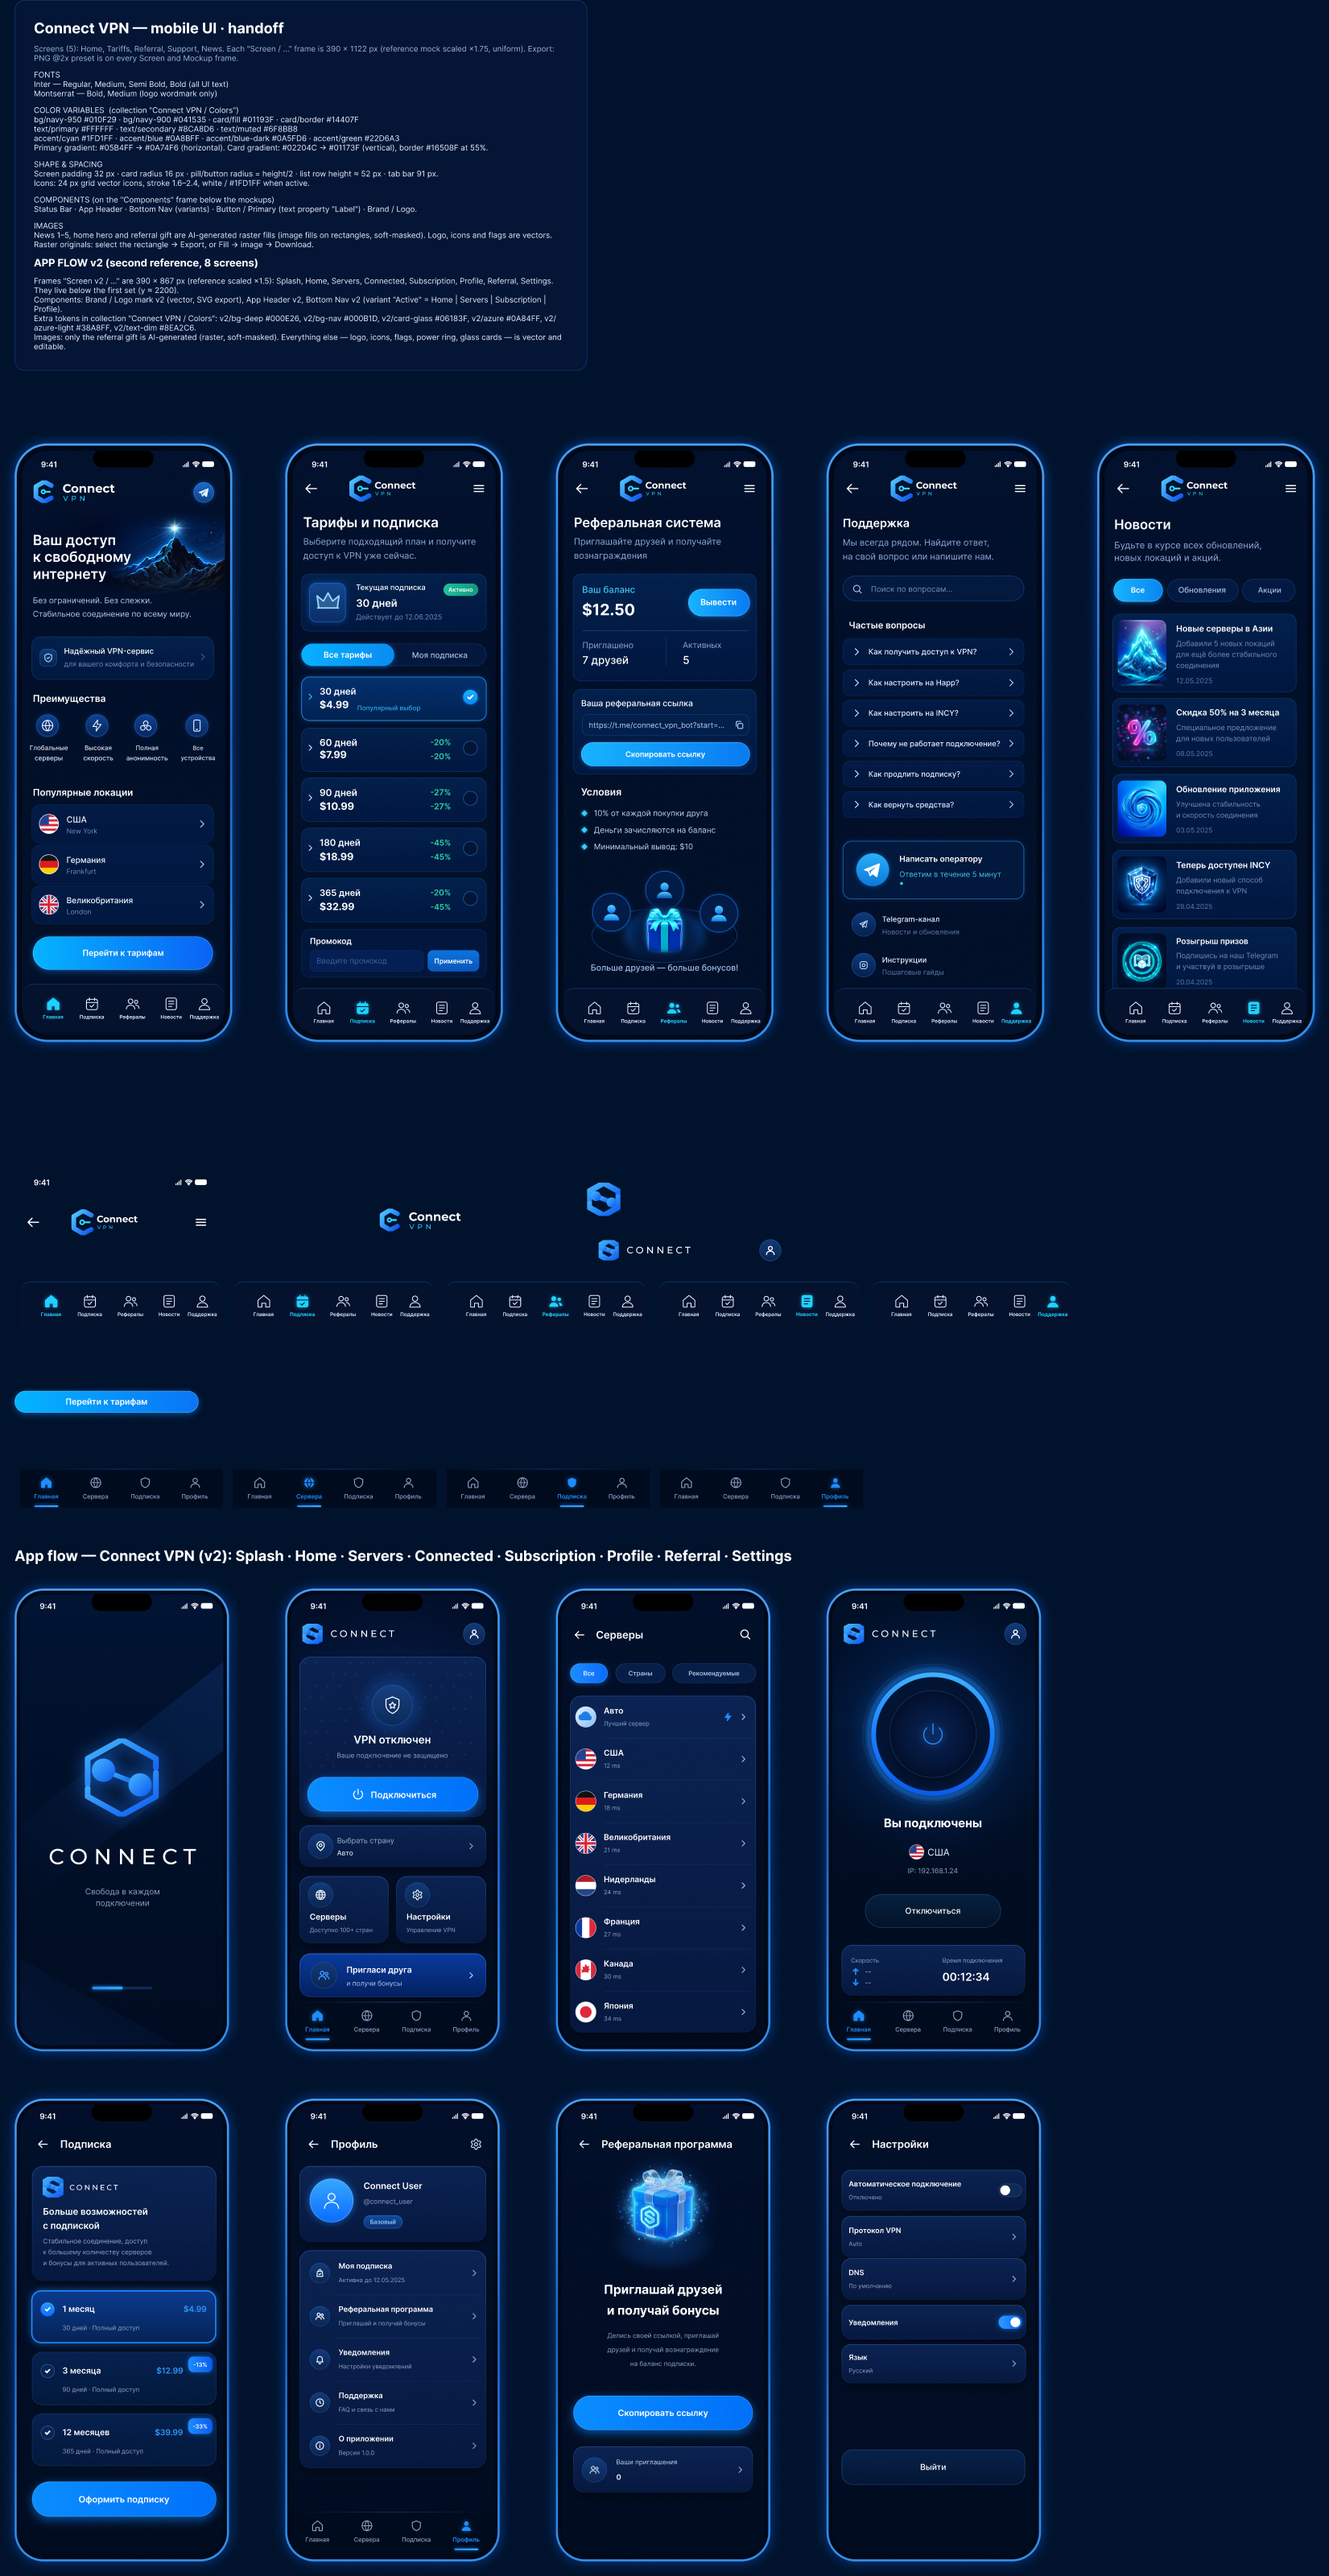
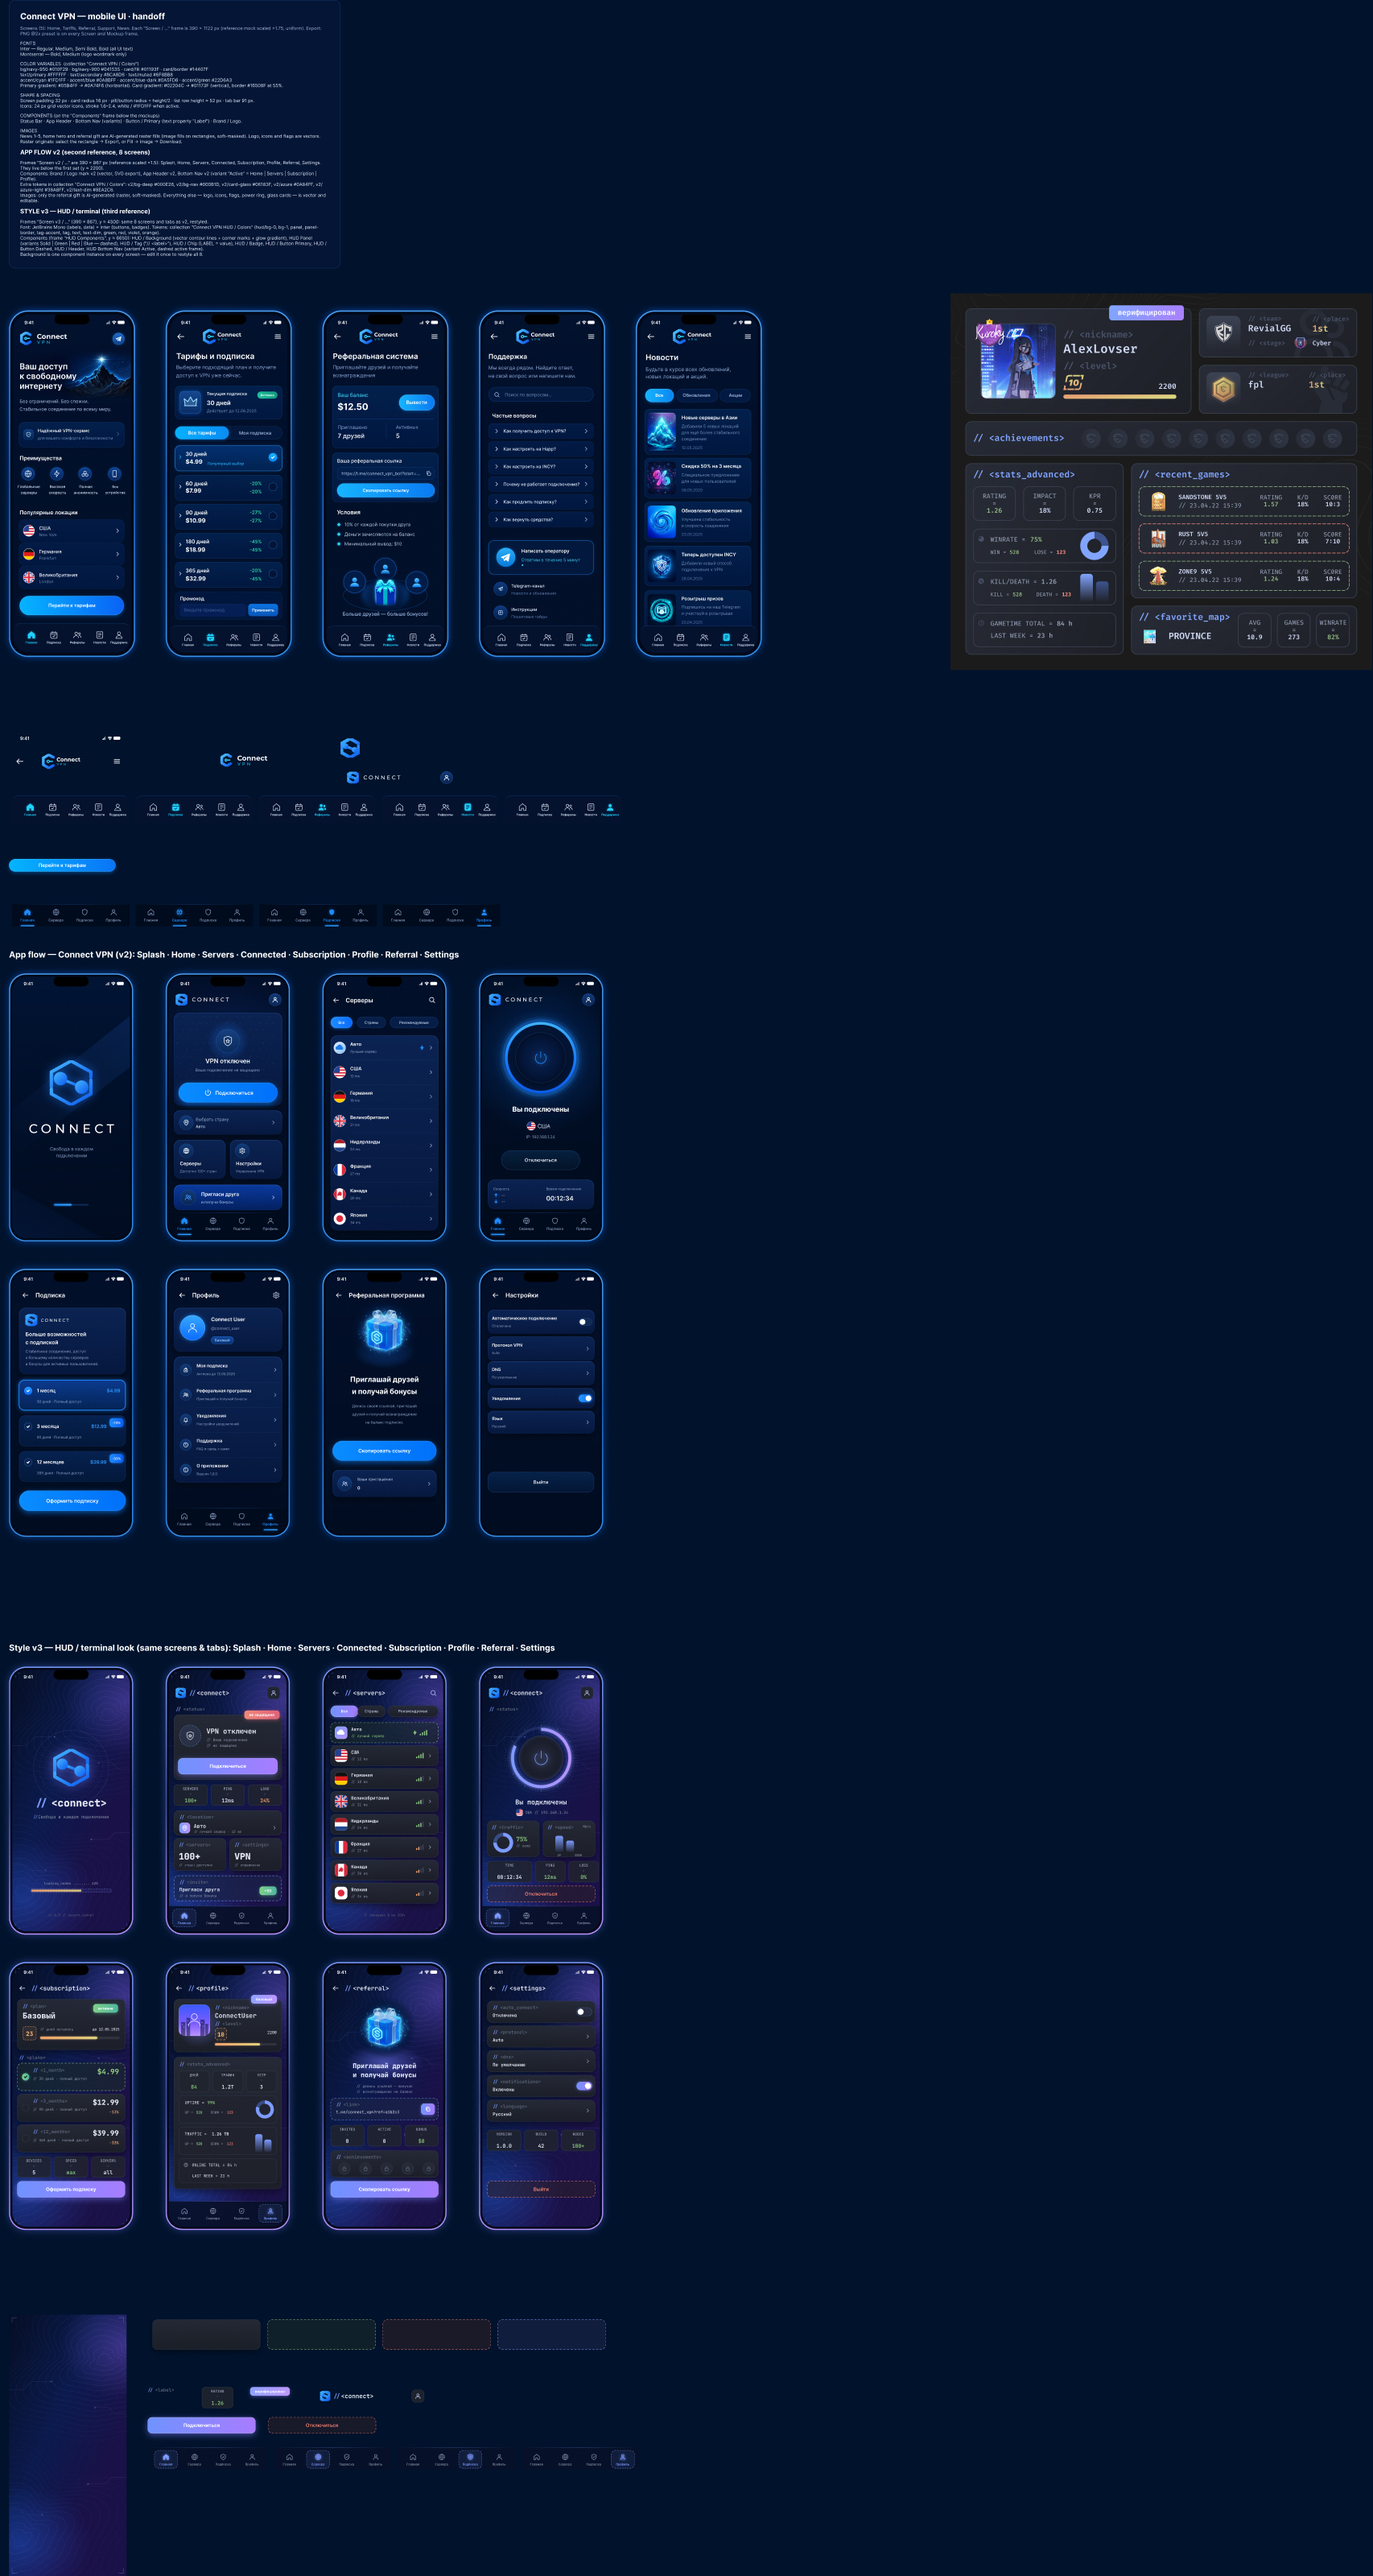
Add Connect VPN HUD/terminal style v3: 8 screens and component set
Claude-Session: https://claude.ai/code/session_01SJc26jBBW1uDSYSrNjHaJt

diff --git a/figma/connect-vpn/README.md b/figma/connect-vpn/README.md
@@ -67,3 +67,23 @@ Components: `Brand / Logo mark v2` (vector, SVG export), `App Header v2`, `Botto
 Extra colour variables: v2/bg-deep #000E26, v2/bg-nav #000B1D, v2/card-glass #06183F, v2/azure #0A84FF, v2/azure-light #38A8FF, v2/text-dim #8EA2C6.
 Only the referral gift is a raster (AI-generated, soft-masked); logo, icons, flags, power ring and glass cards are vectors.
 Screenshots: `figma-overview-full.png` (whole page), `figma-overview-v2.png` (v2 section).
+
+## Style v3 — HUD / terminal (third reference)
+Frames `Screen v3 / …` and `Mockup v3 / …` (390 × 867), y ≈ 4500 — the same 8 screens and tabs as v2, restyled:
+gradient background with vector contour lines and circuit traces, dashed colour-coded panels, `// <tag>` labels, JetBrains Mono.
+
+| Screen | Node id |
+| --- | --- |
+| Splash | 74:1052 |
+| Home | 74:1598 |
+| Servers | 74:2144 |
+| Connected | 74:2690 |
+| Subscription | 74:3236 |
+| Profile | 74:3782 |
+| Referral | 74:4328 |
+| Settings | 74:4874 |
+
+Components (frame `HUD Components`): HUD / Background (instance on every screen — edit once to restyle all), HUD Panel (Style = Solid | Green | Red | Blue, dashed variants),
+HUD / Tag, HUD / Chip, HUD / Badge, HUD / Button Primary, HUD / Button Dashed, HUD / Header, HUD Bottom Nav (Active = Home | Servers | Subscription | Profile).
+Tokens: collection `Connect VPN HUD / Colors` (hud/bg-0 #050E24, bg-1 #0B1A4D, panel #1F232D, panel-border #343B4C, tag-accent #7C9BFF, tag #5A6378, text #E6EAF5, text-dim #8E97AD, green #8BC57F, red #F07E6E, violet #B993FF, orange #F0A06A).
+Screenshot: `figma-overview-v3.png`.
